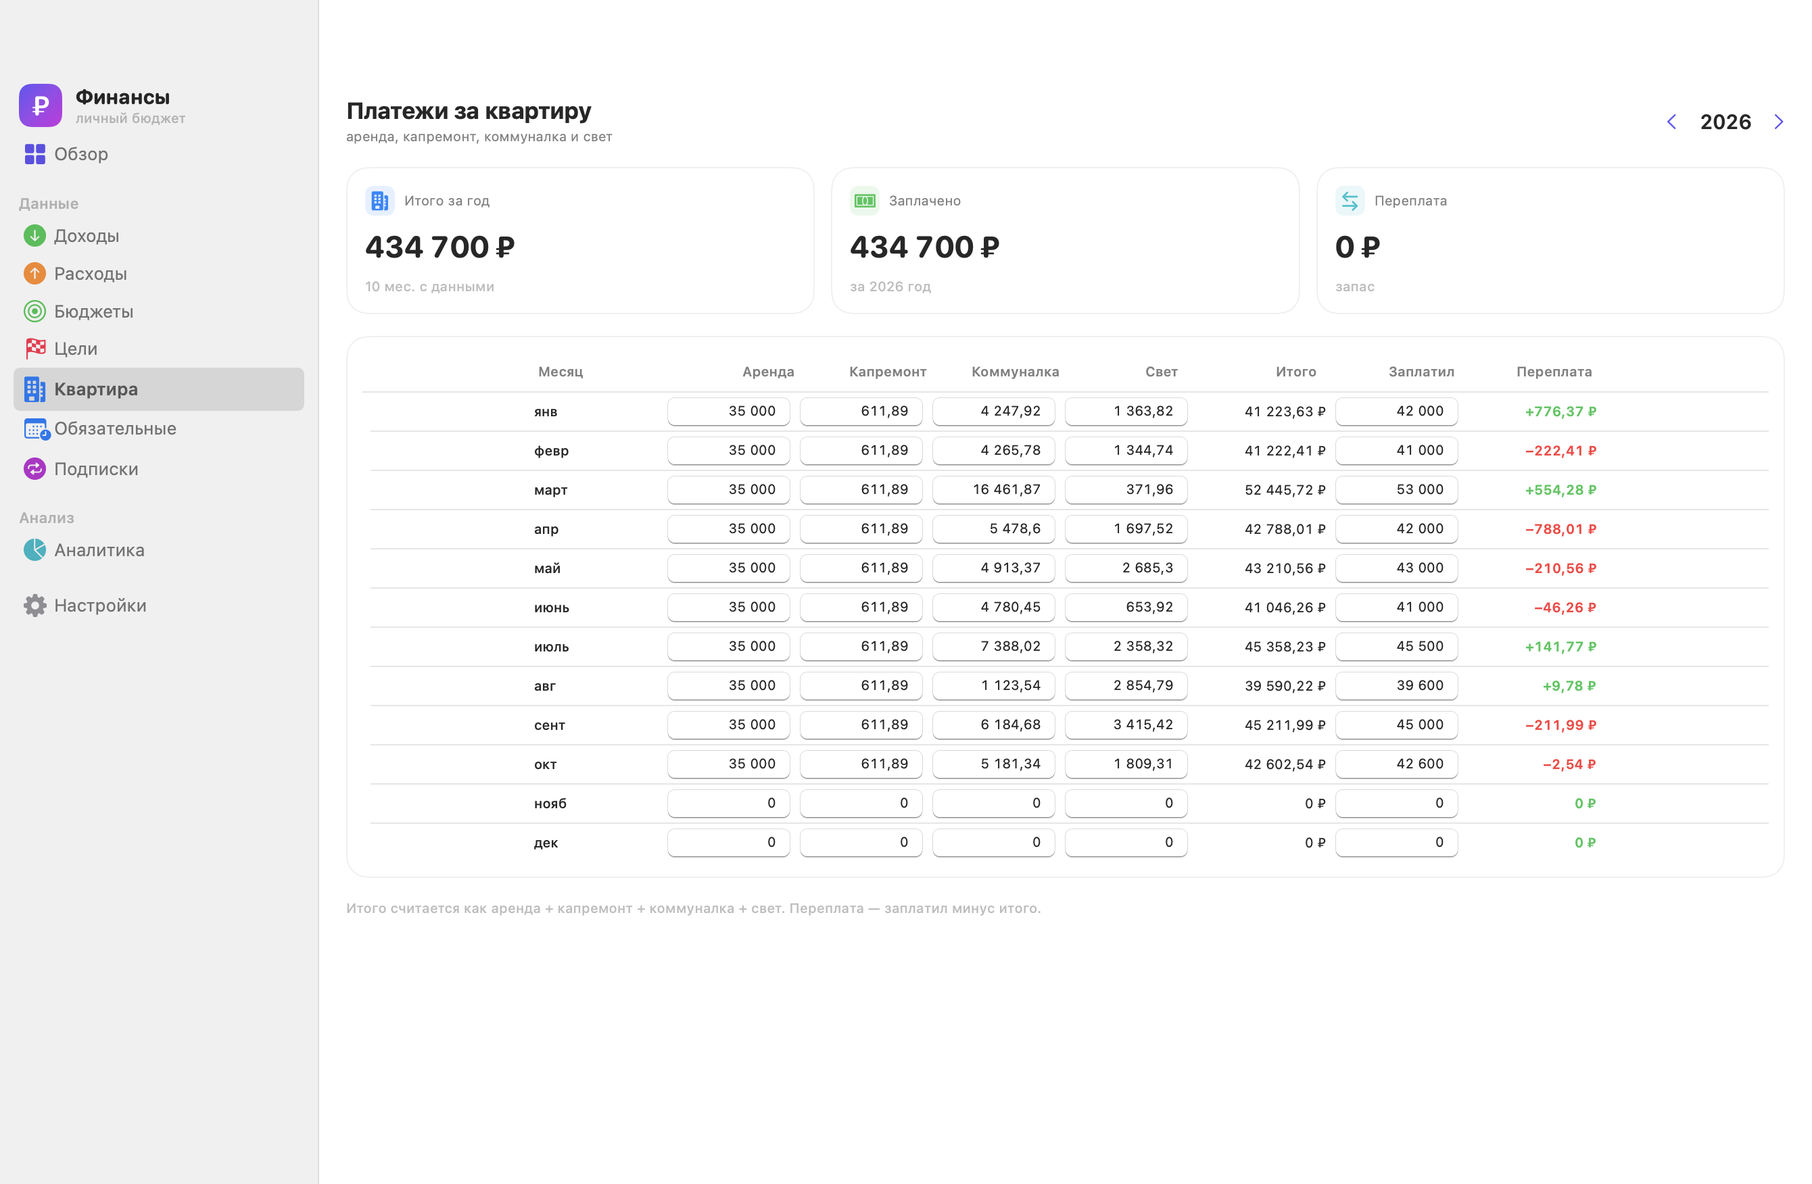
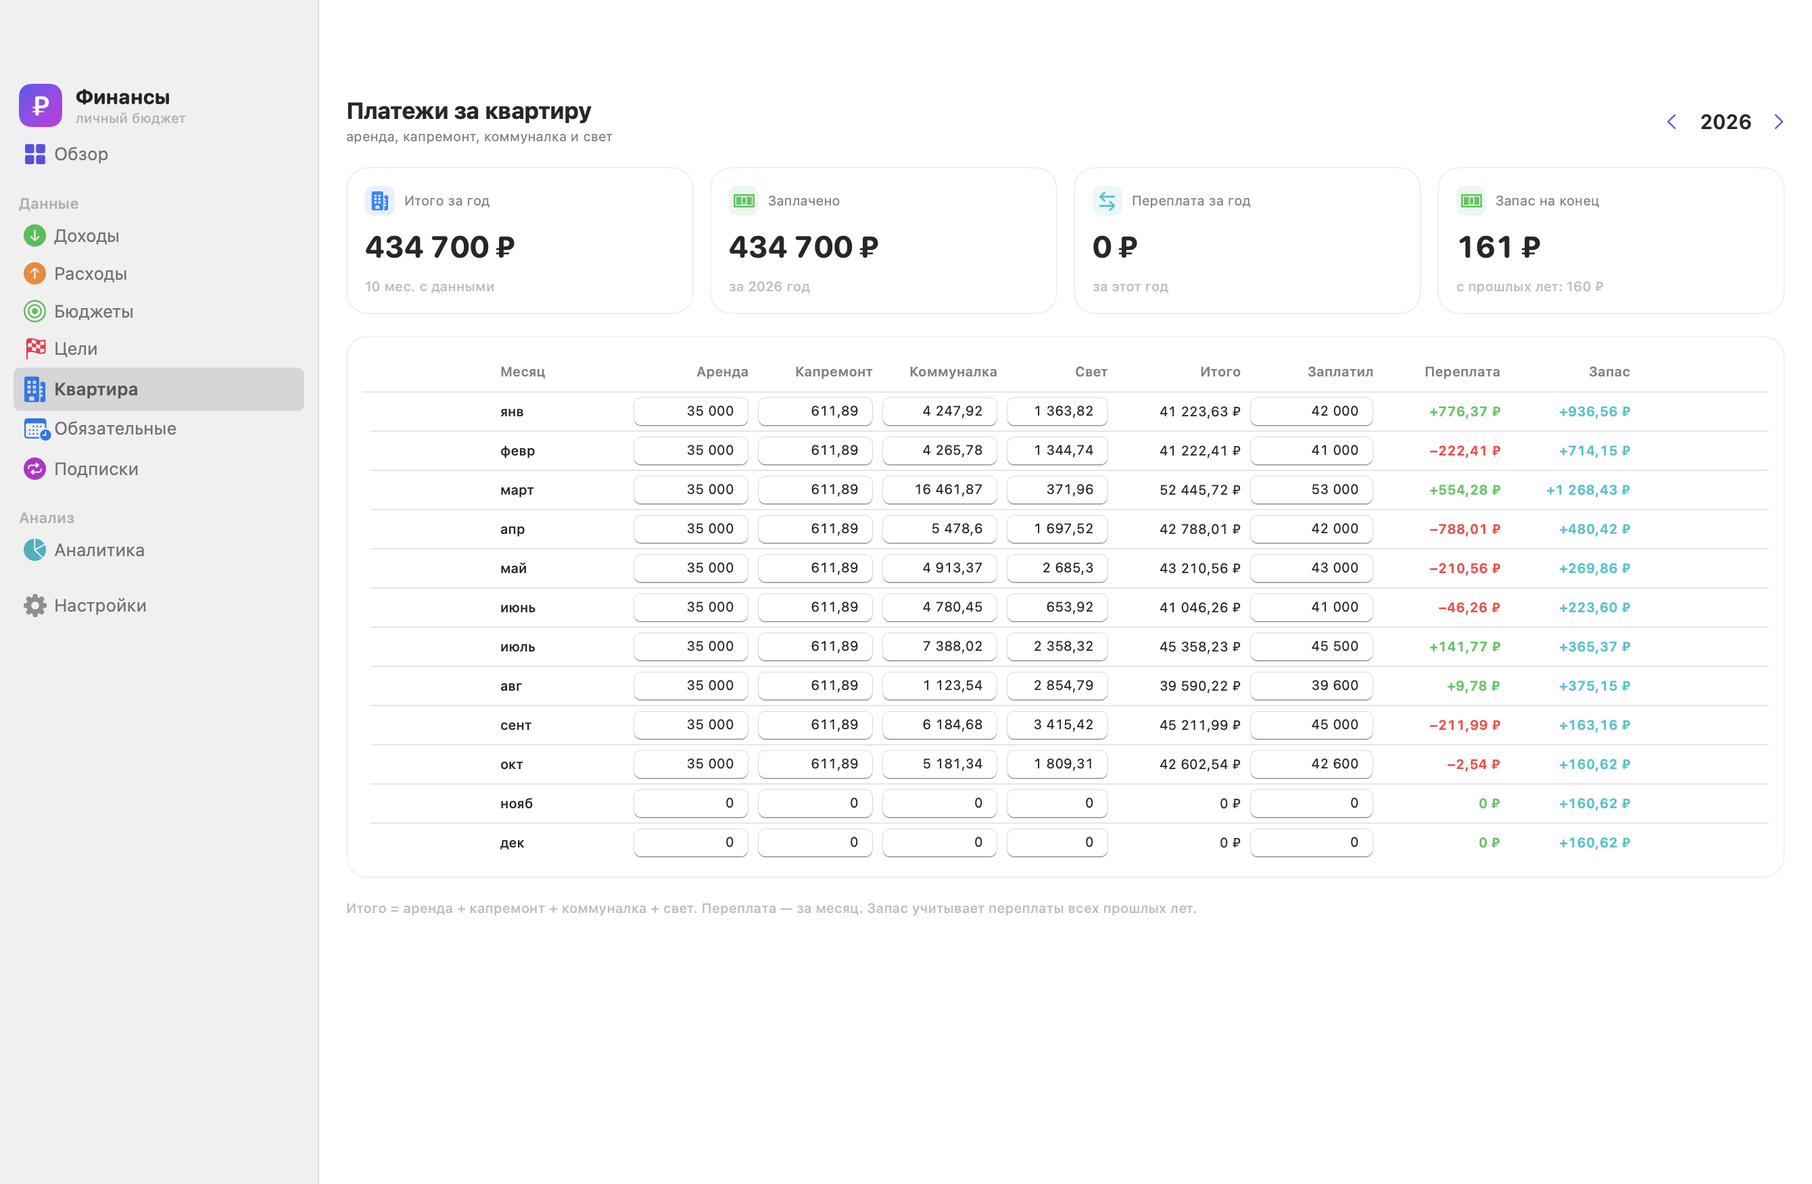
feat: carry apartment overpayment across years
- opening balance from all previous years
- running stock column and year closing balance
- XLSX export adds stock column
- 117 tests

diff --git a/Sources/FinancesUI/Views/Apartment/ApartmentView.swift b/Sources/FinancesUI/Views/Apartment/ApartmentView.swift
@@ -23,8 +23,12 @@ struct ApartmentView: View {
     private var totalPaid: Double {
         yearMonths.reduce(0) { $0 + $1.paid }
     }
-    private var totalOverpayment: Double {
-        yearMonths.reduce(0) { $0 + $1.overpayment }
+    private var yearBalance: ApartmentYearBalance {
+        ApartmentService.balance(for: year, months: months)
+    }
+
+    private var runningBalances: [Int: Double] {
+        ApartmentService.runningBalances(for: year, months: months)
     }
     private var filledMonths: Int {
         yearMonths.filter {
@@ -40,9 +44,11 @@ struct ApartmentView: View {
                 header
                 summary
                 table
-                Text("Итого считается как аренда + капремонт + коммуналка + свет. Переплата — заплатил минус итого.")
-                    .font(.caption2)
-                    .foregroundStyle(.tertiary)
+                Text(
+                    "Итого = аренда + капремонт + коммуналка + свет. Переплата — за месяц. Запас учитывает переплаты всех прошлых лет."
+                )
+                .font(.caption2)
+                .foregroundStyle(.tertiary)
             }
             .padding(20)
         }
@@ -129,12 +135,20 @@ struct ApartmentView: View {
                 tint: .green
             )
             StatCard(
-                title: "Переплата",
-                value: Fmt.moneyRounded(totalOverpayment),
-                subtitle: totalOverpayment < 0 ? "недоплата" : "запас",
+                title: "Переплата за год",
+                value: Fmt.moneyRounded(yearBalance.yearOverpayment),
+                subtitle: yearBalance.yearOverpayment < 0 ? "недоплата" : "за этот год",
                 icon: "arrow.left.arrow.right",
-                tint: totalOverpayment < 0 ? .red : .teal,
-                valueColor: totalOverpayment < 0 ? .red : .primary
+                tint: yearBalance.yearOverpayment < 0 ? .red : .teal,
+                valueColor: yearBalance.yearOverpayment < 0 ? .red : .primary
+            )
+            StatCard(
+                title: "Запас на конец",
+                value: Fmt.moneyRounded(yearBalance.closing),
+                subtitle: "с прошлых лет: \(Fmt.moneyRounded(yearBalance.opening))",
+                icon: "banknote.fill",
+                tint: yearBalance.closing < 0 ? .red : .green,
+                valueColor: yearBalance.closing < 0 ? .red : .primary
             )
         }
     }
@@ -144,13 +158,14 @@ struct ApartmentView: View {
             VStack(spacing: 0) {
                 HStack(spacing: 6) {
                     Text("Месяц").frame(width: 92, alignment: .leading)
-                    Text("Аренда").frame(width: 92, alignment: .trailing)
-                    Text("Капремонт").frame(width: 92, alignment: .trailing)
-                    Text("Коммуналка").frame(width: 92, alignment: .trailing)
-                    Text("Свет").frame(width: 82, alignment: .trailing)
-                    Text("Итого").frame(width: 96, alignment: .trailing)
-                    Text("Заплатил").frame(width: 96, alignment: .trailing)
-                    Text("Переплата").frame(width: 96, alignment: .trailing)
+                    Text("Аренда").frame(width: 86, alignment: .trailing)
+                    Text("Капремонт").frame(width: 86, alignment: .trailing)
+                    Text("Коммуналка").frame(width: 86, alignment: .trailing)
+                    Text("Свет").frame(width: 76, alignment: .trailing)
+                    Text("Итого").frame(width: 92, alignment: .trailing)
+                    Text("Заплатил").frame(width: 92, alignment: .trailing)
+                    Text("Переплата").frame(width: 88, alignment: .trailing)
+                    Text("Запас").frame(width: 90, alignment: .trailing)
                 }
                 .font(.caption2.weight(.semibold))
                 .foregroundStyle(.secondary)
@@ -160,7 +175,10 @@ struct ApartmentView: View {
 
                 ForEach(1...12, id: \.self) { number in
                     if let month = yearMonths.first(where: { $0.month == number }) {
-                        ApartmentRow(month: month)
+                        ApartmentRow(
+                            month: month,
+                            runningBalance: runningBalances[number] ?? 0
+                        )
                     }
                     if number != 12 {
                         Divider().padding(.leading, 6)
@@ -257,6 +275,7 @@ struct ApartmentView: View {
 private struct ApartmentRow: View {
     @Environment(\.modelContext) private var context
     @Bindable var month: ApartmentMonth
+    let runningBalance: Double
 
     var body: some View {
         HStack(spacing: 6) {
@@ -264,21 +283,26 @@ private struct ApartmentRow: View {
                 .font(.caption.weight(.medium))
                 .frame(width: 92, alignment: .leading)
 
-            moneyField($month.rent)
-            moneyField($month.capitalRepair)
-            moneyField($month.utilities)
-            moneyField($month.electricity)
+            moneyField($month.rent, width: 86)
+            moneyField($month.capitalRepair, width: 86)
+            moneyField($month.utilities, width: 86)
+            moneyField($month.electricity, width: 76)
 
             Text(Fmt.money(month.total))
                 .font(.caption.monospacedDigit())
-                .frame(width: 96, alignment: .trailing)
+                .frame(width: 92, alignment: .trailing)
 
-            moneyField($month.paid)
+            moneyField($month.paid, width: 92)
 
             Text(Fmt.signedMoney(month.overpayment))
                 .font(.caption.monospacedDigit().weight(.semibold))
                 .foregroundStyle(month.overpayment < 0 ? Color.red : Color.green)
-                .frame(width: 96, alignment: .trailing)
+                .frame(width: 88, alignment: .trailing)
+
+            Text(Fmt.signedMoney(runningBalance))
+                .font(.caption.monospacedDigit().weight(.semibold))
+                .foregroundStyle(runningBalance < 0 ? Color.red : Color.teal)
+                .frame(width: 90, alignment: .trailing)
         }
         .padding(.horizontal, 6)
         .padding(.vertical, 3)
@@ -289,7 +313,7 @@ private struct ApartmentRow: View {
         .onChange(of: month.paidKopecks) { _, _ in save() }
     }
 
-    private func moneyField(_ value: Binding<Double>) -> some View {
+    private func moneyField(_ value: Binding<Double>, width: CGFloat = 92) -> some View {
         TextField(
             "",
             value: value,
@@ -298,7 +322,7 @@ private struct ApartmentRow: View {
         .textFieldStyle(.roundedBorder)
         .multilineTextAlignment(.trailing)
         .font(.caption.monospacedDigit())
-        .frame(width: 92)
+        .frame(width: width)
     }
 
     private func save() {

diff --git a/Sources/FinancesCore/ImportExport/ApartmentXLSXCodec.swift b/Sources/FinancesCore/ImportExport/ApartmentXLSXCodec.swift
@@ -131,7 +131,7 @@ package enum ApartmentXLSXCodec {
         var rows: [String] = []
         let header = [
             "Месяц", "Аренда", "Капремонт", "Коммуналка", "Свет",
-            "Итого", "Заплатил", "Переплата",
+            "Итого", "Заплатил", "Переплата", "Запас",
         ]
         rows.append(
             "<row r=\"1\">"
@@ -142,7 +142,8 @@ package enum ApartmentXLSXCodec {
                 + "</row>"
         )
 
-        for (offset, month) in months.enumerated() {
+        var running = 0.0
+        for (offset, month) in months.sorted(by: { ($0.year, $0.month) < ($1.year, $1.month) }).enumerated() {
             let row = offset + 2
             let values: [(String, Double)] = [
                 ("B", month.rent),
@@ -161,9 +162,12 @@ package enum ApartmentXLSXCodec {
             cells.append(
                 "<c r=\"F\(row)\"><f>SUM(B\(row):E\(row))</f><v>\(number(total))</v></c>"
             )
+            let monthly = month.paid - total
+            running += monthly
             cells.append(
-                "<c r=\"H\(row)\"><f>G\(row)-F\(row)</f><v>\(number(month.paid - total))</v></c>"
+                "<c r=\"H\(row)\"><f>G\(row)-F\(row)</f><v>\(number(monthly))</v></c>"
             )
+            cells.append("<c r=\"I\(row)\"><v>\(number(running))</v></c>")
             rows.append("<row r=\"\(row)\">\(cells.joined())</row>")
         }
 
@@ -172,7 +176,7 @@ package enum ApartmentXLSXCodec {
             <worksheet xmlns="http://schemas.openxmlformats.org/spreadsheetml/2006/main">
             <cols>
             <col min="1" max="1" width="18" customWidth="1"/>
-            <col min="2" max="8" width="14" customWidth="1"/>
+            <col min="2" max="9" width="14" customWidth="1"/>
             </cols>
             <sheetData>\(rows.joined())</sheetData>
             </worksheet>

diff --git a/Sources/FinancesCore/Core/ApartmentService.swift b/Sources/FinancesCore/Core/ApartmentService.swift
@@ -1,0 +1,52 @@
+import Foundation
+
+// MARK: - Баланс по квартире
+
+package struct ApartmentYearBalance {
+    package let opening: Double
+    package let yearOverpayment: Double
+
+    package var closing: Double { opening + yearOverpayment }
+}
+
+package enum ApartmentService {
+    package static func openingBalance(
+        before year: Int,
+        months: [ApartmentMonth]
+    ) -> Double {
+        months
+            .filter { $0.year < year }
+            .reduce(0) { $0 + $1.overpayment }
+    }
+
+    package static func balance(
+        for year: Int,
+        months: [ApartmentMonth]
+    ) -> ApartmentYearBalance {
+        ApartmentYearBalance(
+            opening: openingBalance(before: year, months: months),
+            yearOverpayment:
+                months
+                .filter { $0.year == year }
+                .reduce(0) { $0 + $1.overpayment }
+        )
+    }
+
+    /// Запас после каждого месяца года с учётом переплат прошлых лет.
+    package static func runningBalances(
+        for year: Int,
+        months: [ApartmentMonth]
+    ) -> [Int: Double] {
+        var balance = openingBalance(before: year, months: months)
+        var result: [Int: Double] = [:]
+        for month in 1...12 {
+            let overpayment =
+                months
+                .filter { $0.year == year && $0.month == month }
+                .reduce(0) { $0 + $1.overpayment }
+            balance += overpayment
+            result[month] = balance
+        }
+        return result
+    }
+}

diff --git a/Tests/FinancesCoreTests/ApartmentBalanceTests.swift b/Tests/FinancesCoreTests/ApartmentBalanceTests.swift
@@ -1,0 +1,41 @@
+import XCTest
+@testable import FinancesCore
+
+final class ApartmentBalanceTests: XCTestCase {
+    private func month(
+        _ year: Int,
+        _ month: Int,
+        rent: Double = 35_000,
+        capital: Double = 611.89,
+        utilities: Double = 4_247.92,
+        electricity: Double = 1_363.82,
+        paid: Double
+    ) -> ApartmentMonth {
+        ApartmentMonth(
+            year: year,
+            month: month,
+            rent: rent,
+            capitalRepair: capital,
+            utilities: utilities,
+            electricity: electricity,
+            paid: paid
+        )
+    }
+
+    func testCarryFromPreviousYear() {
+        let december2025 = month(
+            2025, 12, capital: 523.11, utilities: 4_247.92, electricity: 1_568.78, paid: 41_500
+        )
+        let january2026 = month(2026, 1, paid: 42_000)
+        let months = [december2025, january2026]
+
+        XCTAssertEqual(ApartmentService.openingBalance(before: 2026, months: months), 160.19, accuracy: 0.001)
+        let running = ApartmentService.runningBalances(for: 2026, months: months)
+        XCTAssertEqual(running[1] ?? 0, 936.56, accuracy: 0.001)
+
+        let balance = ApartmentService.balance(for: 2026, months: months)
+        XCTAssertEqual(balance.opening, 160.19, accuracy: 0.001)
+        XCTAssertEqual(balance.yearOverpayment, 776.37, accuracy: 0.001)
+        XCTAssertEqual(balance.closing, 936.56, accuracy: 0.001)
+    }
+}

diff --git a/docs/roadmap.html b/docs/roadmap.html
@@ -240,7 +240,7 @@
 
           <article class="debt">
             <div class="debt-head"><h3>Нет UI-тестов</h3><span class="pill">P1 · M</span></div>
-            <p>Есть 116 тестов и snapshot-раннер, но критические сценарии не проверяются XCUITest.</p>
+            <p>Есть 117 тестов и snapshot-раннер, но критические сценарии не проверяются XCUITest.</p>
           </article>
 
           <article class="debt">

diff --git a/ROADMAP.md b/ROADMAP.md
@@ -27,7 +27,7 @@
 - Подписки с месячной/годовой нагрузкой и ближайшими списаниями.
 - Аналитика: динамика, два бублика, средние по типам, итоги по годам и кварталам, фильтры.
 - Демо-данные за 24 месяца, CSV-экспорт и импорт, JSON-бэкап, автобэкапы.
-- 116 тестов, CI, Pages, wiki и release-пайплайн.
+- 117 тестов, CI, Pages, wiki и release-пайплайн.
 - `FinancesSchemaV2`, миграция V1 → V2 и экран восстановления store.
 - Локальное хранение, светлая/тёмная темы, адаптивность.
 
@@ -71,7 +71,7 @@
 
 ### v2.1 — Квартира и XLSX (в работе) 🚧
 
-**Статус:** раздел «Квартира», импорт/экспорт XLSX и схема V7 готовы (116 тестов). Данные за декабрь 2025 — октябрь 2026 импортированы в локальный store.
+**Статус:** раздел «Квартира», импорт/экспорт XLSX, перенос запаса между годами и схема V7 готовы (117 тестов). Данные за декабрь 2025 — октябрь 2026 импортированы в локальный store.
 
 **Фичи**
 
@@ -267,7 +267,7 @@
 
 ### v2.0 — Desktop 2.0 (22–34 недели) ✅
 
-**Статус:** iCloud исключён по требованиям. Отчёт по расписанию готов (116 тестов). Остальные направления — iOS, мультивалютность, локализация, счета. Добавлены accessibility-описания, настройки в бэкапе, конструктор маппинга и запоминание настроек CSV.
+**Статус:** iCloud исключён по требованиям. Отчёт по расписанию готов (117 тестов). Остальные направления — iOS, мультивалютность, локализация, счета. Добавлены accessibility-описания, настройки в бэкапе, конструктор маппинга и запоминание настроек CSV.
 
 **Цель:** данные доступны на всех устройствах, приложение перестаёт быть одиночным Mac-инструментом.
 

diff --git a/README.md b/README.md
@@ -95,6 +95,7 @@
 
 - Помесячная таблица: аренда, капремонт, коммуналка, свет.
 - «Итого» и «Переплата» считаются автоматически.
+- Запас переносится между годами: переплата 2025 года учитывается в 2026.
 - Импорт и экспорт XLSX с тем же набором колонок.
 - Сводка за год и редактирование прямо в таблице.
 
@@ -127,7 +128,7 @@
 - Импорт CSV с автоматическим распознаванием колонок и предпросмотром.
 - Полная очистка данных с подтверждением.
 - Светлая и тёмная темы, русская локализация, суммы в рублях.
-- 116 тестов и CI на GitHub Actions.
+- 117 тестов и CI на GitHub Actions.
 
 ## Скриншоты
 
@@ -248,7 +249,7 @@ Sources/
     Views/            экраны, бюджеты, цели, категории, общие компоненты
   FinancesApp/        тонкий composition root
 Tests/
-  FinancesCoreTests/  116 тестов
+  FinancesCoreTests/  117 тестов
 Scripts/
   package_app.sh      сборка .app
   lint.sh             swift-format

diff --git a/CHANGELOG.md b/CHANGELOG.md
@@ -7,9 +7,10 @@
 ### Добавлено
 
 - Раздел «Квартира»: аренда, капремонт, коммуналка, свет, итого и переплата.
+- Перенос запаса/переплаты между годами и колонка «Запас».
 - Импорт и экспорт XLSX для платежей за квартиру.
 - Схема V7 и `ApartmentMonth`.
-- 116 тестов.
+- 117 тестов.
 
 ## [2.0.0] — 2026-10-30
 
@@ -20,7 +21,7 @@
 - Accessibility-описания для бубликов и прогресс-баров.
 - Настройки приложения входят в JSON-бэкап.
 - Кастомный DMG-инсталлятор с фоном и перетаскиванием в Applications.
-- 116 тестов.
+- 117 тестов.
 
 ## [1.5.0] — 2026-10-23
 
